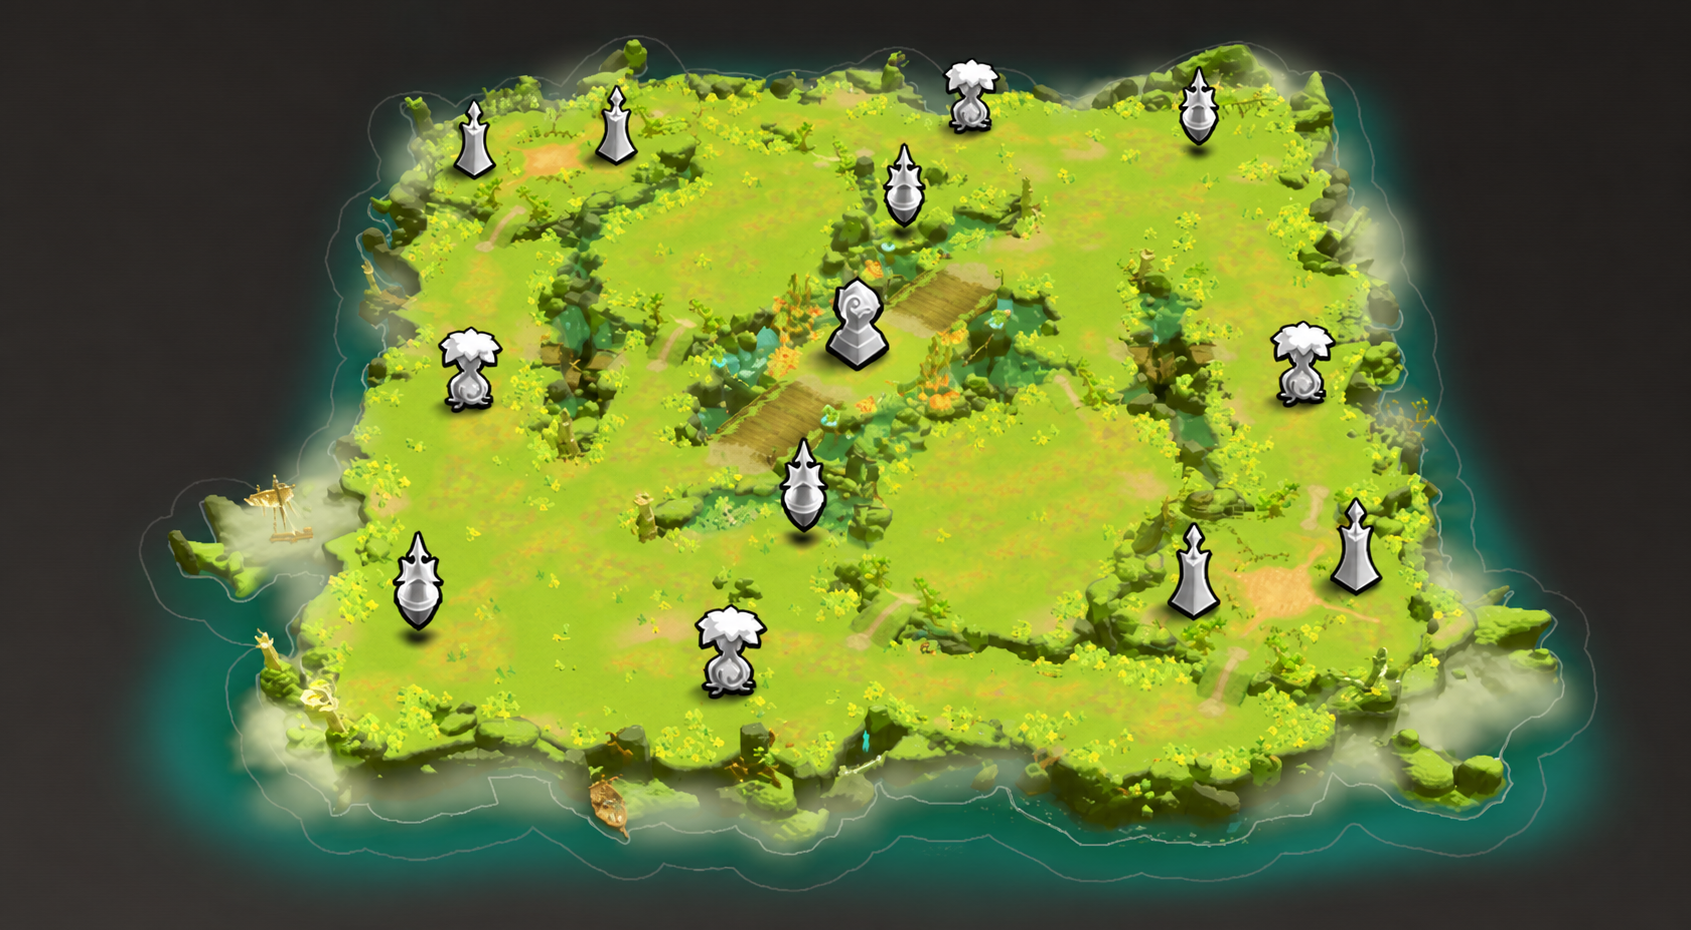
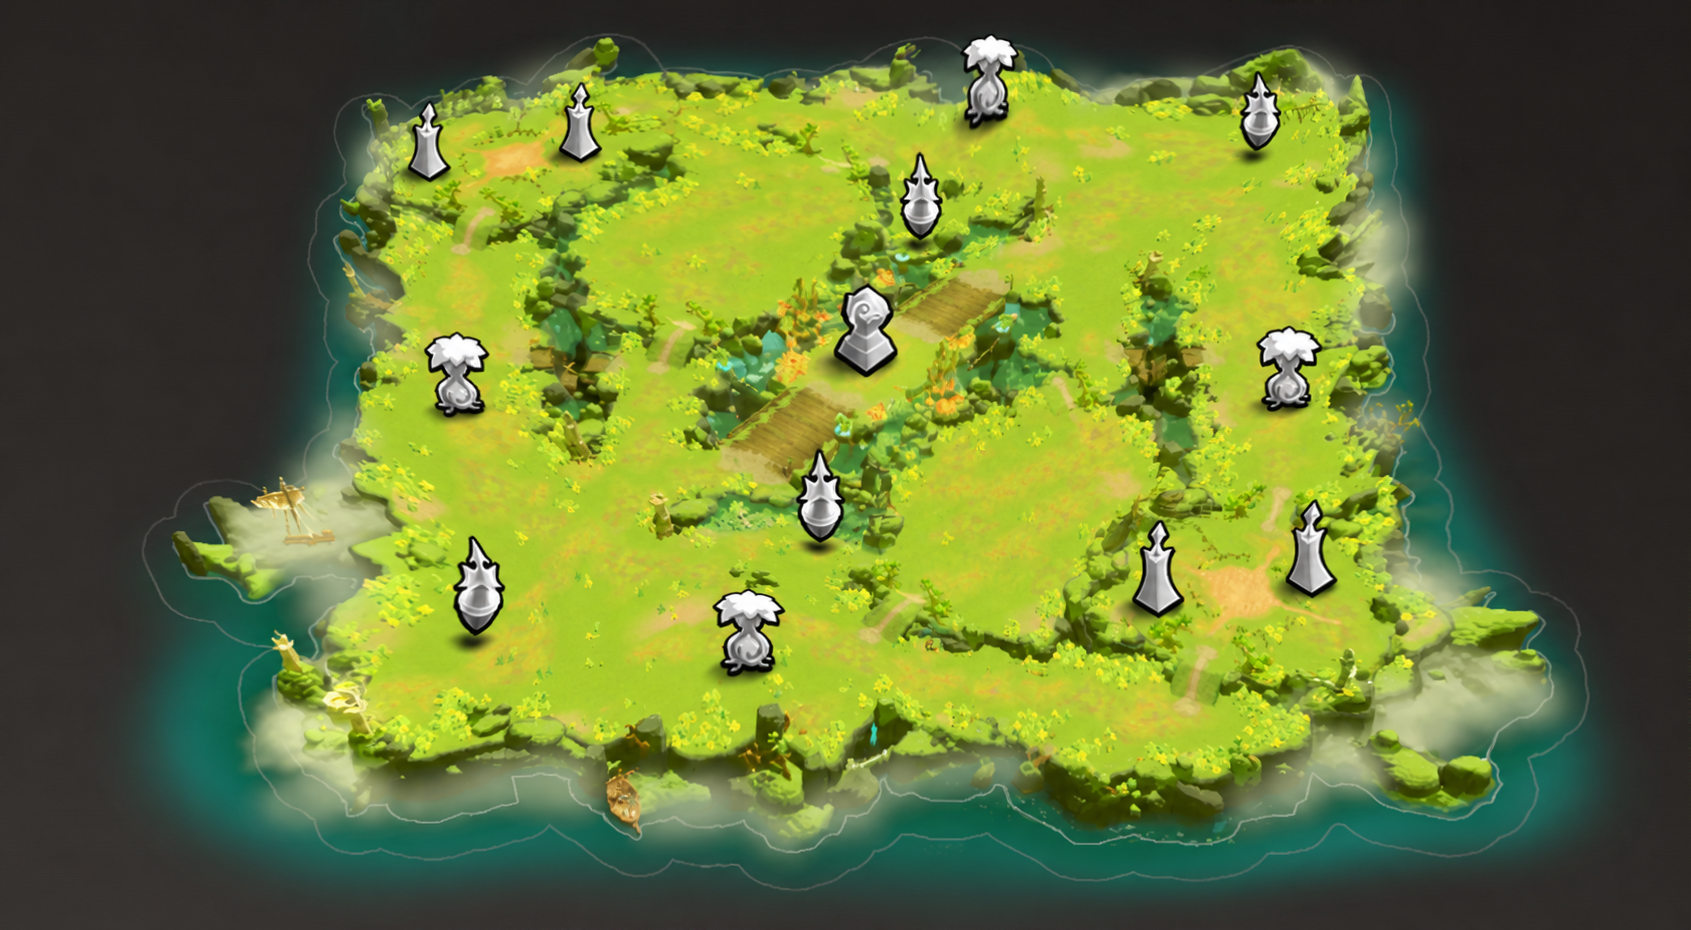
Make the board symmetric about one centre
The league map is symmetric in play, but the tactical art is a perspective
render, so on screen the pairs did not line up: joining each objective to
its opposite gave six lines that missed each other by up to 3.8%p. Snapping
the coordinates alone would have dragged markers as far as 5%p off the
icons they label.

So the art itself is warped instead. Icon positions were read off the
image (brightness/saturation split, then connected components), each pair
was reflected onto a common centre, and those twelve displacements drive a
smooth IDW warp with the frame pinned. Markers stay on their icons and the
six lines now meet at one point.

Starting points, home zones, the life stone, the dragon spawns and the
enemy camp mouths ride the same warp and are then reflected too. The field
map is already top-down and needed no warp - its pairs were within 1.4%p -
so only its numbers were squared up.

Both maps now report a single centre with 0.004%p spread across all seven
pairs. The untouched tactical art is kept as heinapel-tactical-original.png.

Claude-Session: https://claude.ai/code/session_01NwbcQxbXWxToL47ibN5wYR

Changed region(s): [[0.0923, 0.0312, 0.9533, 0.9667], [0.1845, 0.8731, 0.3075, 0.9355], [0.6458, 0.9355, 0.6765, 0.9667]]

diff --git a/app/war-table.tsx b/app/war-table.tsx
@@ -109,22 +109,22 @@ const STAFF_ORDER: Record<PrimaryRole, string> = {
 const DEFAULT_SCENE_EVENTS: SceneEvents = { fairyDragon: "", lifeStone: "", fairyDragonPosition: "northwest" };
 const SCENE_TIMES = ["60:00", "55:00", "52:00", "46:00", "42:00"];
 const STARTING_POINT_CENTER: Record<MapVariant, Record<"lucia" | "ian", Point>> = {
-  tactical: { lucia: { x: .392, y: .268 }, ian: { x: .612, y: .558 } },
-  field: { lucia: { x: .342, y: .42 }, ian: { x: .594, y: .65 } },
+  tactical: { lucia: { x: .4044, y: .2294 }, ian: { x: .6265, y: .5193 } },
+  field: { lucia: { x: .3793, y: .3673 }, ian: { x: .6313, y: .5973 } },
 };
 const OBJECTIVE_META = [
-  { id: "spirit-west", label: "영목", location: "서쪽", tactical: { x: 27.9, y: 39.3 }, field: { x: 20.8, y: 54.2 } },
-  { id: "spirit-north", label: "영목", location: "북쪽", tactical: { x: 57.5, y: 10.3 }, field: { x: 61.9, y: 16.3 } },
-  { id: "spirit-east", label: "영목", location: "동쪽", tactical: { x: 77.3, y: 38.1 }, field: { x: 79.8, y: 40 } },
-  { id: "spirit-south", label: "영목", location: "남쪽", tactical: { x: 43.3, y: 71.3 }, field: { x: 38.4, y: 81.6 } },
-  { id: "hall-northeast", label: "전당", location: "1시", tactical: { x: 71.1, y: 11.3 }, field: { x: 78.9, y: 21 } },
-  { id: "hall-southwest", label: "전당", location: "7시", tactical: { x: 24.8, y: 61.6 }, field: { x: 21.1, y: 75 } },
-  { id: "hall-north", label: "전당", location: "생명의 반석 12시", tactical: { x: 53.5, y: 18.9 }, field: { x: 55.4, y: 27.3 } },
-  { id: "hall-south", label: "전당", location: "생명의 반석 6시", tactical: { x: 47.7, y: 50.6 }, field: { x: 45.2, y: 68.5 } },
-  { id: "lookout-lucia-west", label: "전망대", location: "루시아 스타팅 후방 서쪽", tactical: { x: 28.1, y: 15 }, field: { x: 21.8, y: 23.4 } },
-  { id: "lookout-lucia-east", label: "전망대", location: "루시아 스타팅 후방 동쪽", tactical: { x: 36.4, y: 13.3 }, field: { x: 33.7, y: 22.2 } },
-  { id: "lookout-ian-west", label: "전망대", location: "이안 스타팅 후방 서쪽", tactical: { x: 70.6, y: 60.2 }, field: { x: 69.6, y: 75.8 } },
-  { id: "lookout-ian-east", label: "전망대", location: "이안 스타팅 후방 동쪽", tactical: { x: 80.2, y: 57.2 }, field: { x: 79.8, y: 73.4 } },
+  { id: "spirit-west", label: "영목", location: "서쪽", tactical: { x: 26.92, y: 37.76 }, field: { x: 21.03, y: 55.33 } },
+  { id: "spirit-north", label: "영목", location: "북쪽", tactical: { x: 58.56, y: 5.38 }, field: { x: 62.28, y: 15.58 } },
+  { id: "spirit-east", label: "영목", location: "동쪽", tactical: { x: 76.17, y: 37.1 }, field: { x: 80.03, y: 41.13 } },
+  { id: "spirit-south", label: "영목", location: "남쪽", tactical: { x: 44.53, y: 69.48 }, field: { x: 38.78, y: 80.88 } },
+  { id: "hall-northeast", label: "전당", location: "1시", tactical: { x: 74.63, y: 11.9 }, field: { x: 79.43, y: 21.23 } },
+  { id: "hall-southwest", label: "전당", location: "7시", tactical: { x: 28.46, y: 62.96 }, field: { x: 21.63, y: 75.22 } },
+  { id: "hall-north", label: "전당", location: "생명의 반석 12시", tactical: { x: 54.52, y: 21.32 }, field: { x: 55.63, y: 27.63 } },
+  { id: "hall-south", label: "전당", location: "생명의 반석 6시", tactical: { x: 48.58, y: 53.54 }, field: { x: 45.43, y: 68.83 } },
+  { id: "lookout-lucia-west", label: "전망대", location: "루시아 스타팅 후방 서쪽", tactical: { x: 25.44, y: 15.49 }, field: { x: 21.53, y: 23.23 } },
+  { id: "lookout-lucia-east", label: "전망대", location: "루시아 스타팅 후방 동쪽", tactical: { x: 34.44, y: 13.42 }, field: { x: 32.58, y: 21.43 } },
+  { id: "lookout-ian-west", label: "전망대", location: "이안 스타팅 후방 서쪽", tactical: { x: 68.66, y: 61.44 }, field: { x: 68.48, y: 75.03 } },
+  { id: "lookout-ian-east", label: "전망대", location: "이안 스타팅 후방 동쪽", tactical: { x: 77.66, y: 59.37 }, field: { x: 79.53, y: 73.23 } },
 ] as const;
 
 function freshOperation(): Operation {
@@ -179,8 +179,8 @@ const RALLY_LEADER_ALIAS: Array<[string, string]> = [["진수님", "[WB] 진 수
 // 적 진영 앞 골짜기 입구. 거점 아이콘이 없는 지형이라 좌표를 직접 잡았다.
 // 전술 맵 값은 지도 원본에서 실측했고, 실전 맵 값은 거점 12쌍의 변위로 환산한 추정치다.
 const ENEMY_GATE: Record<MissionSide, Record<MapVariant, Point>> = {
-  ian: { tactical: { x: .390, y: .388 }, field: { x: .349, y: .526 } },
-  lucia: { tactical: { x: .640, y: .350 }, field: { x: .651, y: .433 } },
+  ian: { tactical: { x: .3903, y: .3933 }, field: { x: .3543, y: .5288 } },
+  lucia: { tactical: { x: .6406, y: .3553 }, field: { x: .6563, y: .4358 } },
 };
 function objectivePoint(id: string, variant: MapVariant): Point | null {
   const found = OBJECTIVE_META.find((item) => item.id === id);

diff --git a/app/mdt-theme.css b/app/mdt-theme.css
@@ -138,7 +138,7 @@ body {
 .map-field .home-lucia { left: 38%; top: 31%; width: 14%; height: 18%; color: #58dcf0; }
 .map-field .home-ian { left: 50%; top: 56%; width: 14%; height: 18%; color: #f0d221; }
 .map-tactical .lifestone-anchor { left: 50.5%; top: 39%; }
-.map-field .lifestone-anchor { left: 50%; top: 48%; }
+.map-field .lifestone-anchor { left: 50.53%; top: 48.23%; }
 .lifestone-anchor::before { width: 47px; height: 47px; background: radial-gradient(circle, rgba(215, 181, 109, 0.2), rgba(17, 19, 20, 0.65) 57%, transparent 60%); border-color: rgba(225, 196, 130, 0.65); box-shadow: 0 2px 10px rgba(0, 0, 0, 0.55); }
 .lifestone-anchor::after { width: 35px; height: 35px; border-color: #d7b56d; }
 .lifestone-anchor span { width: 32px; height: 32px; color: #e0bd71; font-size: 12px; }
@@ -209,11 +209,11 @@ body {
 .home-ian {
   background: radial-gradient(circle, rgba(255, 216, 42, 0.34) 0 35%, rgba(255, 216, 42, 0.16) 52%, transparent 72%);
 }
-.map-tactical .home-lucia { left: 43.4%; top: 19.4%; width: 15%; height: auto; }
-.map-tactical .home-ian { left: 61.2%; top: 55.8%; width: 15%; height: auto; }
+.map-tactical .home-lucia { left: 42.72%; top: 19.25%; width: 15%; height: auto; }
+.map-tactical .home-ian { left: 60.37%; top: 55.62%; width: 15%; height: auto; }
 .map-field .home-lucia { left: 43%; top: 35%; width: 15%; height: auto; }
 .map-field .home-ian { left: 55.5%; top: 65%; width: 15%; height: auto; }
-.map-tactical .lifestone-anchor { left: 50.8%; top: 34.3%; }
+.map-tactical .lifestone-anchor { left: 51.55%; top: 37.43%; }
 
 .capture-objective {
   width: auto;
@@ -340,8 +340,8 @@ body {
   background-size: 170% 100%;
   background-position: center;
 }
-.map-field .home-lucia { left: 38.1%; top: 35%; }
-.map-field .home-ian { left: 59.4%; top: 65%; }
+.map-field .home-lucia { left: 39.88%; top: 33.23%; }
+.map-field .home-ian { left: 61.18%; top: 63.23%; }
 
 .inspector-panel {
   padding: 16px;
@@ -1058,10 +1058,10 @@ body {
   text-align: center;
   text-shadow: 0 2px 5px #000;
 }
-.map-tactical .fairy-dragon-anchor.position-northwest { left: 32.3%; top: 19%; }
-.map-field .fairy-dragon-anchor.position-northwest { left: 27.8%; top: 26%; }
-.map-tactical .fairy-dragon-anchor.position-southeast { left: 75.4%; top: 52.5%; }
-.map-field .fairy-dragon-anchor.position-southeast { left: 74.7%; top: 69.5%; }
+.map-tactical .fairy-dragon-anchor.position-northwest { left: 29.91%; top: 20.63%; }
+.map-field .fairy-dragon-anchor.position-northwest { left: 27.08%; top: 26.48%; }
+.map-tactical .fairy-dragon-anchor.position-southeast { left: 73.18%; top: 54.24%; }
+.map-field .fairy-dragon-anchor.position-southeast { left: 73.98%; top: 69.97%; }
 .fairy-dragon-anchor > span {
   position: relative;
   z-index: 1;
